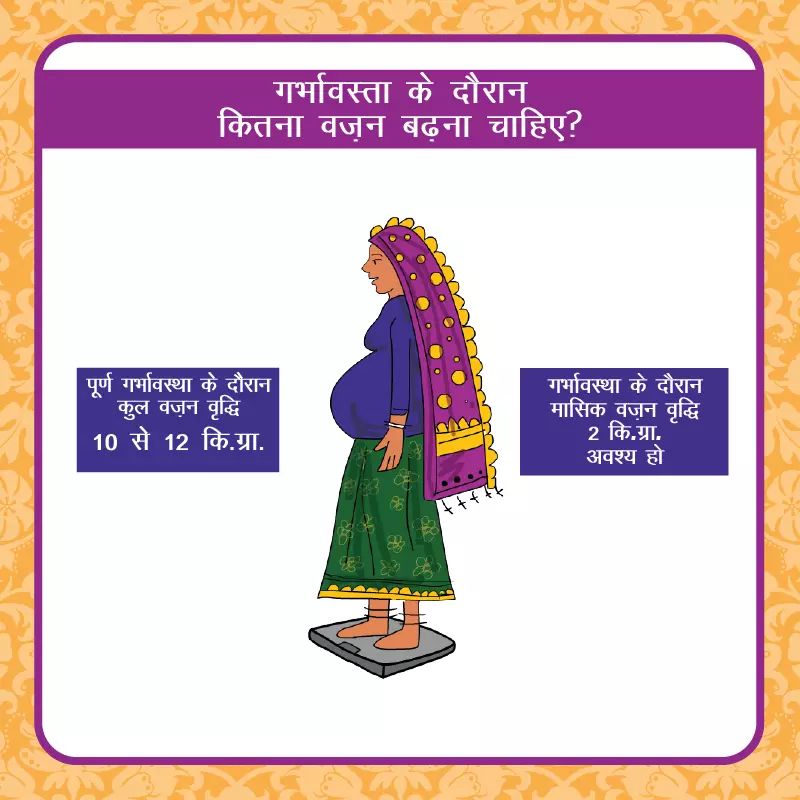
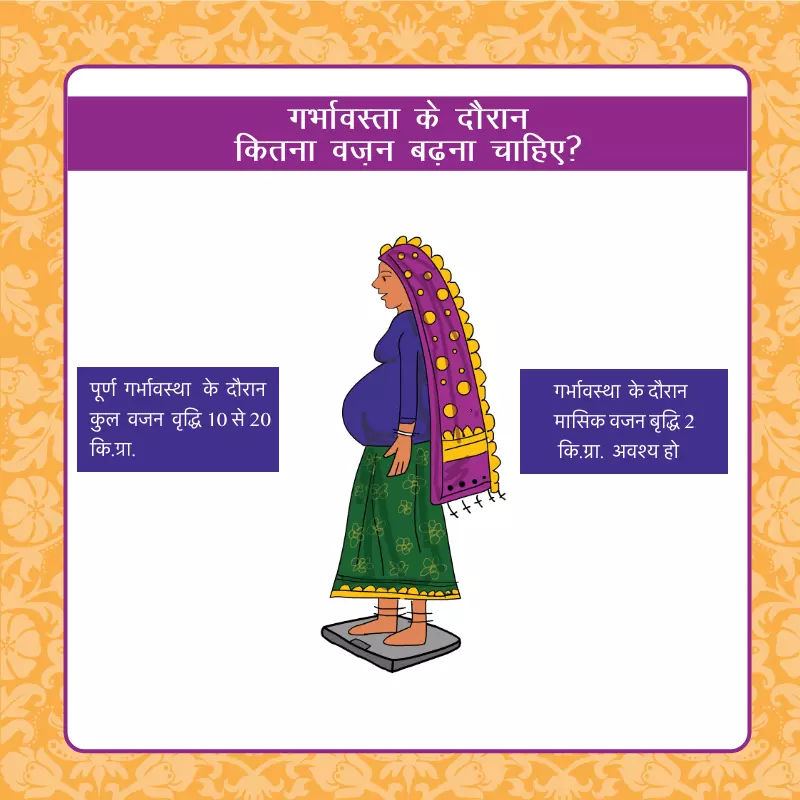
bug fixes, image added

diff --git a/app/src/main/java/in/rajpusht/pc/ui/pregnancy_graph/PregnancyGraphFragment.java b/app/src/main/java/in/rajpusht/pc/ui/pregnancy_graph/PregnancyGraphFragment.java
@@ -13,11 +13,13 @@ import androidx.fragment.app.Fragment;
 import androidx.lifecycle.ViewModelProviders;
 
 import com.github.mikephil.charting.charts.BarLineChartBase;
+import com.github.mikephil.charting.charts.LineChart;
 import com.github.mikephil.charting.components.XAxis;
 import com.github.mikephil.charting.components.YAxis;
 import com.github.mikephil.charting.data.Entry;
 import com.github.mikephil.charting.data.LineData;
 import com.github.mikephil.charting.data.LineDataSet;
+import com.github.mikephil.charting.formatter.ValueFormatter;
 import com.github.mikephil.charting.highlight.Highlight;
 import com.github.mikephil.charting.interfaces.datasets.ILineDataSet;
 import com.github.mikephil.charting.listener.OnChartValueSelectedListener;
@@ -75,10 +77,12 @@ public class PregnancyGraphFragment extends Fragment implements OnChartValueSele
     }
 
     private void setWeightGainGraph() {
-        BarLineChartBase chart = pregnancyGraphFragmentBinding.chart1;
+        LineChart chart = pregnancyGraphFragmentBinding.chart1;
         chart.setOnChartValueSelectedListener(this);
         chart.getDescription().setEnabled(false);
         chart.setDrawGridBackground(false);
+
+
 
         XAxis xAxis = chart.getXAxis();
         xAxis.setPosition(XAxis.XAxisPosition.BOTTOM);
@@ -98,22 +102,23 @@ public class PregnancyGraphFragment extends Fragment implements OnChartValueSele
 
 
         ArrayList<Entry> values1 = new ArrayList<>();
-        values1.add(new Entry(1, 10));
-        values1.add(new Entry(2, 14));
-        values1.add(new Entry(3, 18));
-        values1.add(new Entry(4, 22));
+        values1.add(new Entry(4, 1.5f));
+        values1.add(new Entry(5, 1.5f));
+        values1.add(new Entry(6, 2));
+        values1.add(new Entry(7, 2));
+        values1.add(new Entry(8, 2));
+        values1.add(new Entry(9, 1.5f));
 
-        LineDataSet d1 = new LineDataSet(values1, "Avg Pregnancy  Weight");
+        LineDataSet d1 = new LineDataSet(values1, "Ideal Weight Gain");
         d1.setLineWidth(2.5f);
         d1.setCircleRadius(4.5f);
         d1.setHighLightColor(Color.rgb(244, 117, 117));
         d1.setDrawValues(false);
 
         ArrayList<Entry> values2 = new ArrayList<>();
-        values2.add(new Entry(1, 8));
-        values2.add(new Entry(2, 10));
-        values2.add(new Entry(3, 12));
-        LineDataSet d2 = new LineDataSet(values2, "Mala Weight Gain");
+        values2.add(new Entry(4, 1));
+        values2.add(new Entry(5, 1));
+        LineDataSet d2 = new LineDataSet(values2, "Women Weight Gain");
         d2.setLineWidth(2.5f);
         d2.setCircleRadius(4.5f);
         d2.setHighLightColor(Color.rgb(244, 117, 117));
@@ -127,6 +132,13 @@ public class PregnancyGraphFragment extends Fragment implements OnChartValueSele
 
         LineData data = new LineData(sets);
         chart.setData(data);
+        chart.getXAxis().setValueFormatter(new ValueFormatter() {
+            @Override
+            public String getFormattedValue(float value) {
+                return String.valueOf((int) value);
+            }
+        });
+        xAxis.setLabelCount(values1.size(),true);
         chart.invalidate();
         chart.animateXY(2000, 2000);
     }

diff --git a/app/src/main/java/in/rajpusht/pc/custom/ui/FormDatePickerElement.java b/app/src/main/java/in/rajpusht/pc/custom/ui/FormDatePickerElement.java
@@ -1,5 +1,6 @@
 package in.rajpusht.pc.custom.ui;
 
+import android.app.Activity;
 import android.app.DatePickerDialog;
 import android.content.Context;
 import android.content.res.TypedArray;
@@ -8,6 +9,7 @@ import android.util.AttributeSet;
 import android.util.Pair;
 import android.view.LayoutInflater;
 import android.view.View;
+import android.view.inputmethod.InputMethodManager;
 import android.widget.DatePicker;
 import android.widget.EditText;
 import android.widget.FrameLayout;
@@ -131,6 +133,7 @@ public class FormDatePickerElement extends FrameLayout implements View.OnClickLi
 
     @Override
     public void onClick(View v) {
+        hideKeyboard();
         DatePickerDialog.OnDateSetListener dpd = new DatePickerDialog.OnDateSetListener() {
             @Override
             public void onDateSet(DatePicker view, int year, int monthOfYear,
@@ -182,5 +185,18 @@ public class FormDatePickerElement extends FrameLayout implements View.OnClickLi
 
     public boolean isVisibleAndEnable() {
         return getVisibility() == VISIBLE && isEnabled();
+    }
+
+
+    public void hideKeyboard() {
+        Activity activity= (Activity) getContext();
+
+        View view = activity.getCurrentFocus();
+        if (view != null) {
+            InputMethodManager imm = (InputMethodManager) activity.getSystemService(Context.INPUT_METHOD_SERVICE);
+            if (imm != null) {
+                imm.hideSoftInputFromWindow(view.getWindowToken(), 0);
+            }
+        }
     }
 }

diff --git a/app/src/main/java/in/rajpusht/pc/model/CounsellingMedia.java b/app/src/main/java/in/rajpusht/pc/model/CounsellingMedia.java
@@ -91,7 +91,7 @@ public class CounsellingMedia implements Parcelable {
         counsellingMedia.add(new CounsellingMedia(18, Collections.singletonList("file:///android_asset/counseling/ifa/3.webp")));
         counsellingMedia.add(new CounsellingMedia(19, Collections.singletonList("file:///android_asset/counseling/ifa/4.webp")));
         counsellingMedia.add(new CounsellingMedia(20, Collections.singletonList("file:///android_asset/counseling/ifa/15.webp")));
-        counsellingMedia.add(new CounsellingMedia(21, Collections.singletonList("file:///android_asset/counseling/ifa/13.webp")));//todo check
+        counsellingMedia.add(new CounsellingMedia(21, Collections.singletonList("file:///android_asset/counseling/wg/16.webp")));//todo check
         counsellingMedia.add(new CounsellingMedia(22, Collections.singletonList("file:///android_asset/counseling/ifa/14.webp")));
         counsellingMedia.add(new CounsellingMedia(23, Collections.singletonList("file:///android_asset/counseling/ifa/13.webp")));
         counsellingMedia.add(new CounsellingMedia(24, Collections.singletonList("file:///android_asset/counseling/ifa/8.webp")));

diff --git a/app/src/main/java/in/rajpusht/pc/di/module/AppModule.java b/app/src/main/java/in/rajpusht/pc/di/module/AppModule.java
@@ -37,7 +37,7 @@ public class AppModule {
     @Provides
     @DatabaseInfo
     String dbName() {
-        return "pc-test.db";
+        return "pc-test1.db";
     }
 
 
